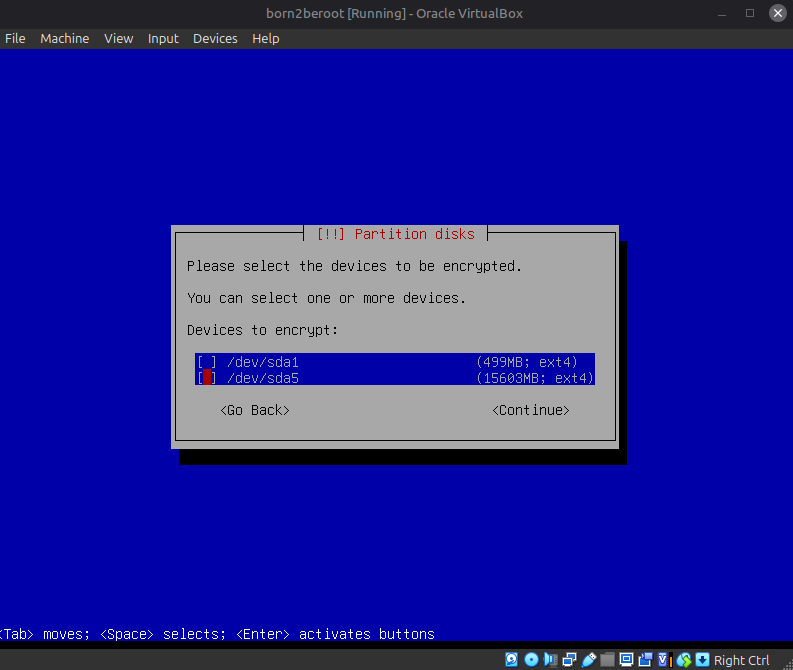
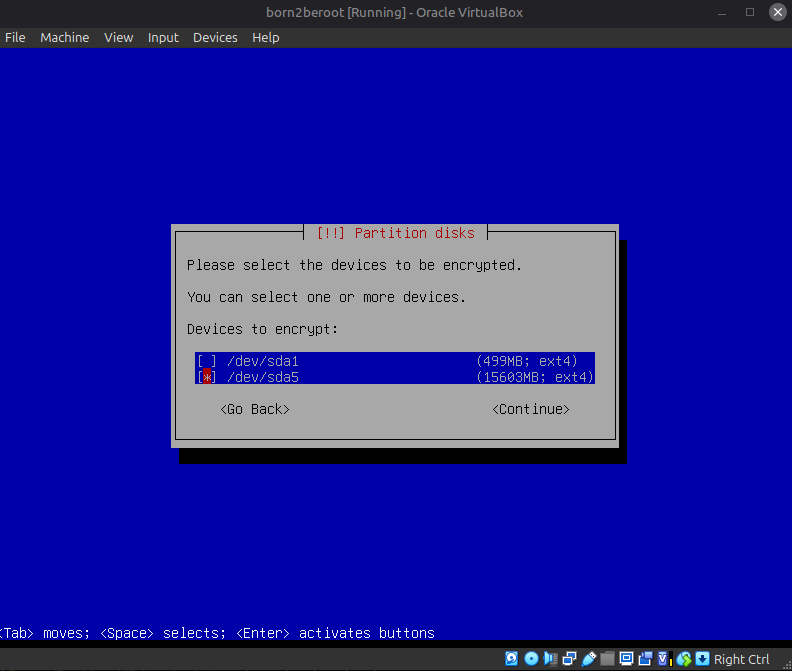
save

diff --git a/README.md b/README.md
@@ -80,6 +80,11 @@ on the next (Summary) page, select 'Finish'
 
 # Setting up the virtual machine
 
+> **REMEMBER :** you can pause the VirtualBox where you are and resume later without losing any installer progress.
+1. Close the VirtualBox window by clicking the X in the top-right corner.
+2. Select "Save the machine state" and click OK.
+3. VirtualBox will freeze the RAM and current installer state onto your computer's disk. When you re-open VirtualBox and click Start, it will resume at this exact screen.
+
 and then we can Start our virtual machine by selecting freshly created vm and Start
 
 <img src="images/vm_start.png" alt="vm start" width="500">
@@ -267,6 +272,8 @@ The born2beRoot subject requirement states: "You must create at least 2 encrypte
 
 > **An encrypted partition** is a physical or logical disk area where all raw data is mathematically scrambled using a cryptographic algorithm (LUKS/AES in Linux). Without entering the correct password at boot to decrpyt it, the data remains unreadable to anyone pulling the hard drive out.
 
+> **LVM (Logical Volume Manager)** is a storage abstraction layer in Linux that allows you to manage disk space flexibly. in traditional partitioning, we devide a physical hard drive directly into fixed partitions (like sda1 in my project), which are difficult to resize or extend. LVM places a management layer between physical disks and the file systems, letting you treat disk space flexibly.
+
 one more time, let's take a closer look at the given lsblk output example:
 - sda5 is the physical partition on disk
 - sda_crypt is the decrypted container unlocked by your password
@@ -297,7 +304,6 @@ means:
 - sda2 is the Extended container holding the logical space
 
 We reserve and use Logical partitions for any scenario where you need more than 4 total partitions on a traditional MBR disk, or when you want to isolate non-critical user and system data away from the main primary boot files.
-
 
 Continuted with Logical type
 
@@ -341,4 +347,46 @@ and
 
 standart Linux architecture requires the standart design pattern across Linux distibutions is to keep a _small_, _unencrypted_ /boot partition so that GRUB can easily hand control over the kernel. the kernel handles prompting for the passphrase and decrypting the rest of the disk (which will be sda5_crypt in my project)
 
+and select 'Continue'
+ 
 <img src="images/devices_to_enc.png" alt="devices_to_enc" width="500">
+
+select 'Done setting up the partition'
+
+leave the remaining settings as it is:
+- Use as: physical volume for encryption (neat as day)
+- Encryption method: Device-mapper (dm-crypt) --> is a tool in the Linux system that locks and hides data on hard drives so people cannot read it without the correct password. Often works with LUKS.
+- Mount point: none --> an encrypted raw partition is simply a locked box (dm-crypt container). it doesn't contain a filesystem like Ext4 that Linux can attach to a folder directory. Leaving Mount point as none is mandatory so the installer knows to treat this partition purely as an encrypted container for LVM, rather than trying to mount it directly to the system
+- Mount options: defaults --> this option applies to how filesystem flags (dev, auto, exec, async, suid, rw etc.) are passed when mounting. Because this raw partition isn't being mounted directly, altering mount options here has no functional effect on the setup.
+- Encryption: aes, Key size: 256 --> AES-256 is the current standart for symmetric encription. provides maximum data protection.
+- IV algorithm: xts-plain64 --> XTS is the recommended Cipher Block Chaining mode specifically designed for full-disk encryption. Selecting older initialization vector (IV) modes like cbc-essiv might lead to make the volume more vulnerable to targeted cryptographic attacks
+- Encryption key: Passphrase --> this tells LUKS to prompt you for a password when booting up the virtual machine
+- Erase data: yes --> keeping it as <yes> hides the real data volume. An attacker looking at the drive won't be able to tell where your actual files end and where empty space begins. it will all look like random noise. It erases any leftover traces of old files that were on the disk before. you can save about 1–2 minutes during installation. however, old data remnants might stay on the drive, and an attacker can see exactly how much real data you actually have stored inside the encrypted container.
+- Bootable flag: off --> label that tells your computer's motherboard to start the computer from the specified partition. the system cannot directly start from and encrypted partition because it can't read the files inside without the password first. it won't work anyway if we set it to 'on'
+
+<img src="images/done_enc_part.png" alt="done with the current partition" width="500">
+
+selected 'Finish' since i want to follow the example on the project subject and don't want to create more encrypted volumes.
+
+<img src="images/finish_enc_conf.png" alt="done with creating encrypted volumes" width="500">
+
+The following screen is asking if you want to fill your new encrypted partition with random data before formatting it with LUKS. when preparing an encrypted volume, the installer offers to overwrite the entire partition space with random noise (0s and 1s). filling the partition with random noise prevents attackers from inspecting the raw drive later to tell the difference between actual encrypted files and unused empty space. 
+
+might take a few minutes to finish
+
+<img src="images/erase_sda5_data.png" alt="erase_sda5_data" width="500">
+
+<img src="images/erasing_data.png" alt="erasing_data" width="500">
+
+now we are supposed to enter a password but this time it will be the encryption passphrase, remember it.
+
+<img src="images/encryption_passphrase.png" alt="encryption passphrase" width="500">
+
+<img src="images/verify_enc_passphrase.png" alt="verify encryption passphrase" width="500">
+
+
+## Configuring the Logical Volume Manager
+
+we will configure the logical volume manager
+
+<img src="images/conf_lvm.png" alt="configure logical volume manager" width="500">
